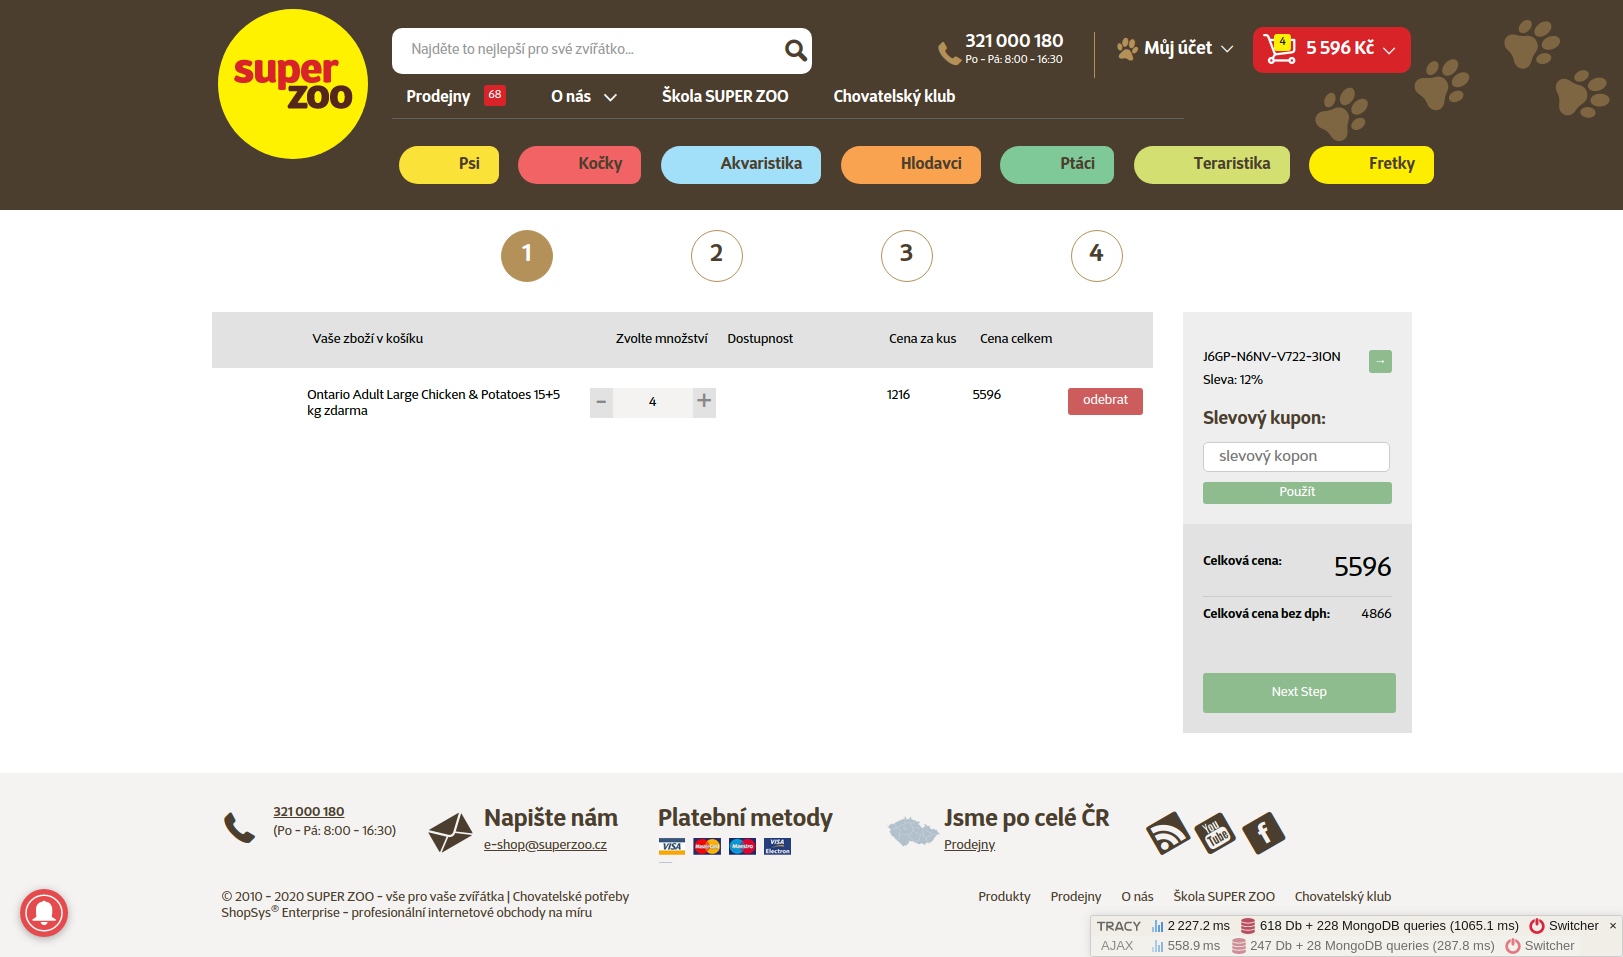
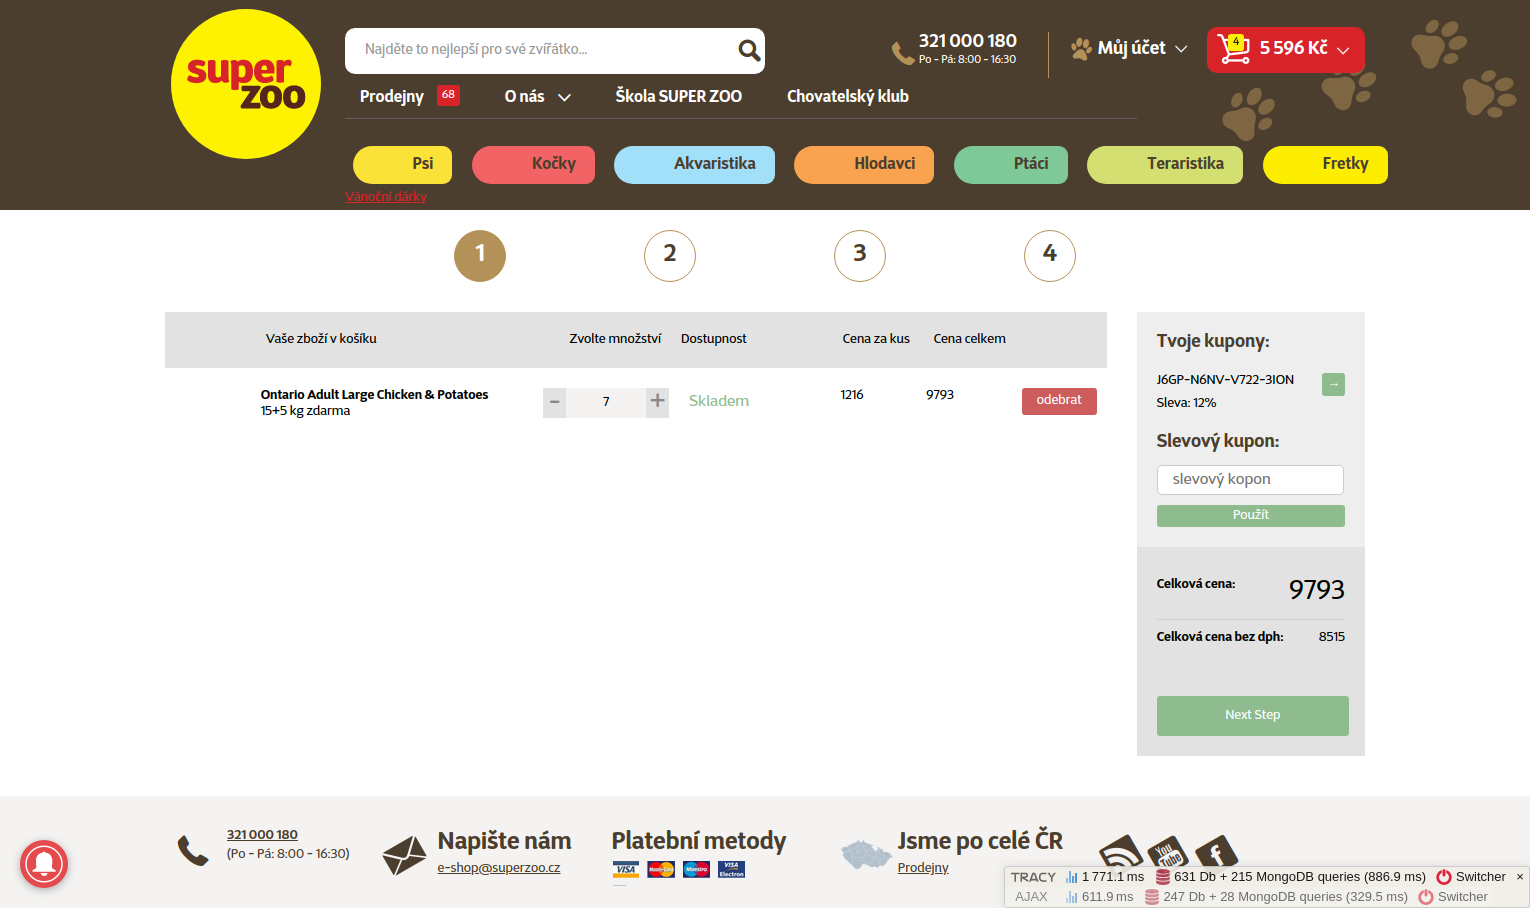
add readme and previews

Changed region(s): [[0.0, 0.0, 1.0, 1.0], [0.0922, 0.8326, 0.5222, 0.9868], [0.0, 0.9251, 0.0614, 0.9868]]

diff --git a/README.md b/README.md
@@ -1,1 +1,7 @@
-# superz_basket_react_rest
+# react basket demo for superzoo
+
+this demo version of react basket using rest-api
+
+![Image description](react_basket_preview.png)
+
+![Image description](react_basket_preview--discount.png)
